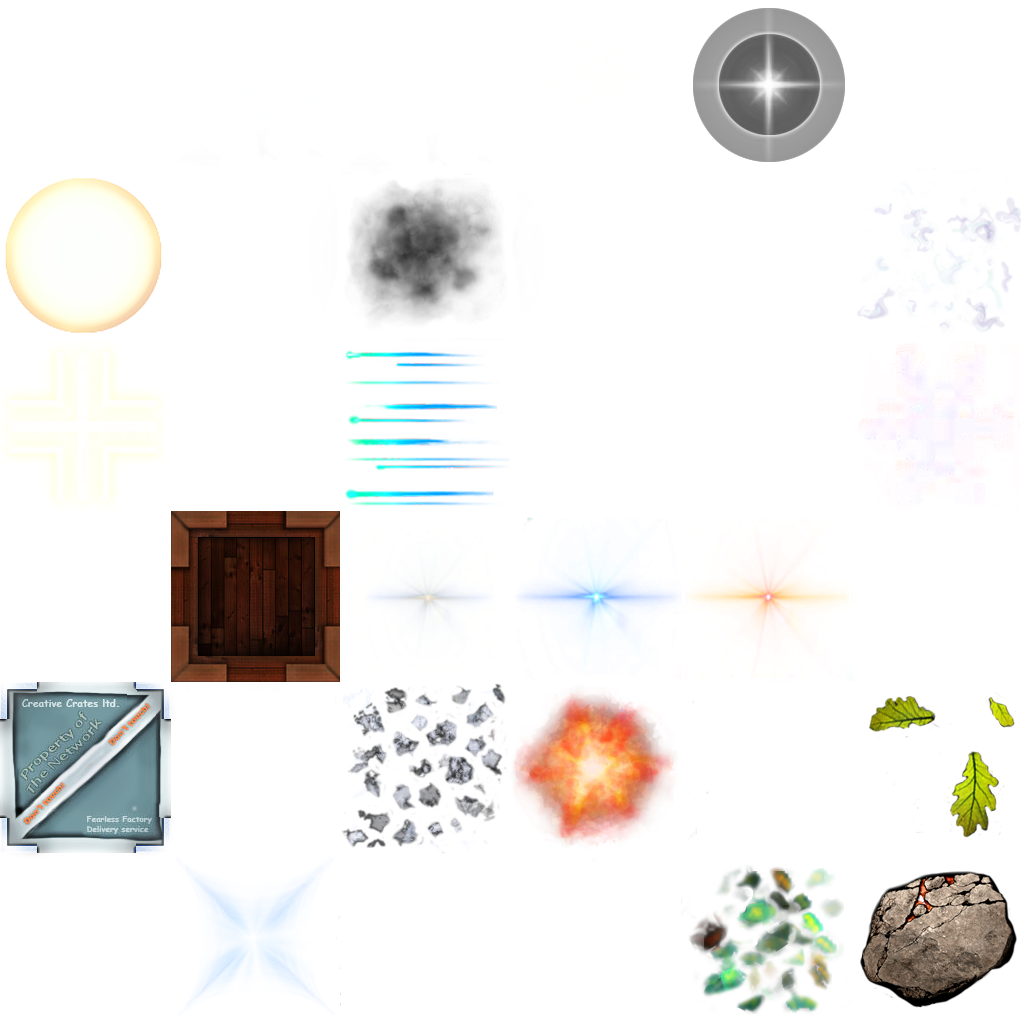
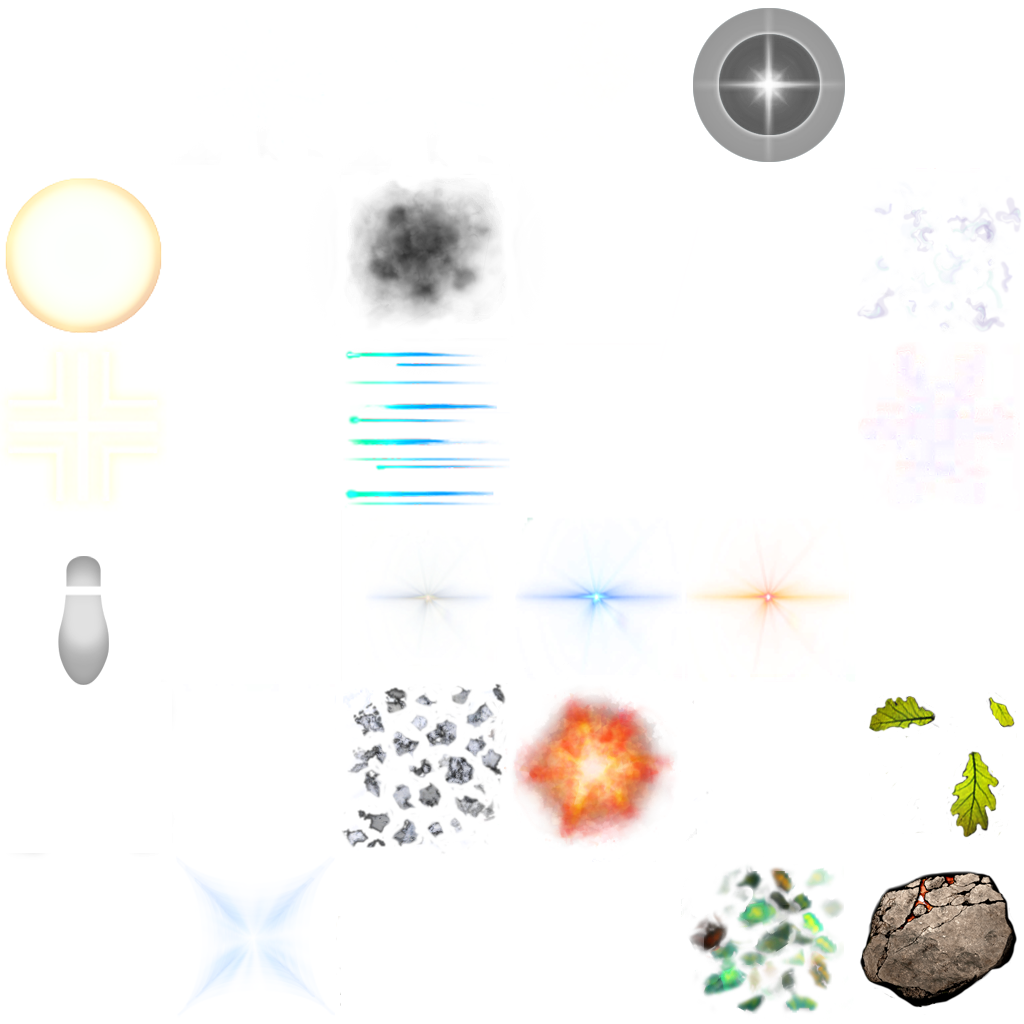
footstep stamps

Changed region(s): [[0.0, 0.5, 0.3438, 0.8438]]

diff --git a/client/js/workers/main/game/control/CharacterFoot.js b/client/js/workers/main/game/control/CharacterFoot.js
@@ -5,6 +5,8 @@ define([
     ],
     function() {
 
+        var tempObj = new THREE.Object3D();
+
         var CharacterFoot = function(key) {
             this.key = key;
 
@@ -13,6 +15,8 @@ define([
 
             this.footReach = new THREE.Vector3();
 
+            this.forward = new THREE.Vector3();
+
             this.contactPoint = new THREE.Vector3();
             this.contactNormal = new THREE.Vector3();
 
@@ -20,9 +24,14 @@ define([
 
             var plantStepEffect = function(effect) {
                 effect.setEffectPosition( this.contactPoint);
-                effect.pos.y +=0.02;
-                effect.setEffectNormal( this.contactNormal);
+                effect.pos.y +=0.005;
+
+                tempObj.up.copy(this.forward);
+                tempObj.lookAt(this.contactNormal);
+
+                effect.setEffectQuaternion(tempObj.quaternion);
                 effect.activateEffectFromConfigId();
+
             }.bind(this);
 
             this.callbacks = {
@@ -42,18 +51,29 @@ define([
             return this.footContactDepth;
         };
 
-        CharacterFoot.prototype.raycastJointDown = function(joint, config, tpf) {
+        CharacterFoot.prototype.raycastJointDown = function(worldEntity, joint, config, tpf) {
             joint.getDynamicPosition(this.footPosition);
             this.footPosition.y += config.foot_margin;
             this.footReach.y = -config.foot_reach;
 
             let hit = PhysicsWorldAPI.raycastFromTo(this.footPosition, this.footReach, this.contactPoint, this.contactNormal);
-
+            let terrainHit = false;
             if (hit) {
+                terrainHit = PhysicsWorldAPI.testPointerIsTerrain(hit.ptr);
+            }
+
+
+            if (terrainHit) {
 
                 if (!this.contactDuration) {
                     this.stepPosition.copy(this.footPosition);
-                    EffectAPI.buildEffectClassByConfigId('effect_footstep', this.callbacks.plantStepEffect)
+                    let speed = worldEntity.getWorldEntityVelocity().lengthSq();
+
+                    if (speed > 0.5 && this.contactNormal.y > 0.9) {
+                        worldEntity.getWorldEntityForward(this.forward);
+                        EffectAPI.buildEffectClassByConfigId('effect_footstep', this.callbacks.plantStepEffect)
+                    }
+
                 }
 
                 this.contactDuration+= tpf;
@@ -72,7 +92,7 @@ define([
         CharacterFoot.prototype.updateCharacterFoot = function(worldEntity, config, tpf) {
 
             let joint = worldEntity.getAttachmentJoint(this.key);
-            this.raycastJointDown(joint, config, tpf);
+            this.raycastJointDown(worldEntity, joint, config, tpf);
 
 
         };

diff --git a/client/js/worker/effects/ParticleEffect.js b/client/js/worker/effects/ParticleEffect.js
@@ -14,10 +14,13 @@ define([
 
             this.particle_id = 'normal';
             this.pos = new THREE.Vector3();
+            this.quat = new THREE.Quaternion();
             this.normal = new THREE.Vector3(0, 1, 0);
-
+            this.rotZ = 0;
             this.size = 2+Math.random()*3;
 
+            this.attackTime = 1;
+            this.releaseTime = 1;
             this.colorRgba = {r:1, g:1, b:1, a: 1};
 
             this.config = {
@@ -62,6 +65,10 @@ define([
             this.normal.copy(normal);
         };
 
+        ParticleEffect.prototype.setParticleQuat = function(quat) {
+            this.quat.copy(quat);
+        };
+
         ParticleEffect.prototype.applyConfig = function() {
 
             this.size = MATH.randomBetween(this.config.size_min, this.config.size_max) || 5;
@@ -75,6 +82,9 @@ define([
             this.sprite[2] = this.config.sprite[2] || 1;
             this.sprite[3] = this.config.sprite[3] || 0;
 
+            this.attackTime = this.config.attack_time   || 1;
+            this.releaseTime =this.config.release_time  || 1;
+
             if (this.config.surface) {
 
                 if (this.pos.y < 0) {
@@ -86,7 +96,6 @@ define([
         };
 
         ParticleEffect.prototype.recoverParticleEffect = function() {
-            this.bufferElement.scaleUniform(0.3);
             this.bufferElement.releaseElement()
         };
 
@@ -95,24 +104,22 @@ define([
         };
 
         ParticleEffect.prototype.setBufferElement = function(bufferElement) {
+
             this.bufferElement = bufferElement;
             this.bufferElement.setPositionVec3(this.pos);
-
-            tempObj.lookAt(this.normal);
-            tempObj.rotateZ(Math.random() * 10);
-
-            this.bufferElement.setQuat(tempObj.quaternion);
+            this.bufferElement.setQuat(this.quat);
 
             this.bufferElement.scaleUniform(this.size);
             this.bufferElement.sprite.x = this.sprite[0];
             this.bufferElement.sprite.y = this.sprite[1];
             this.bufferElement.sprite.z = this.sprite[2];
             this.bufferElement.sprite.w = this.sprite[3];
+
             this.bufferElement.setSprite(this.bufferElement.sprite);
             this.bufferElement.setColorRGBA(this.colorRgba);
 
-            this.bufferElement.setAttackTime(1.0);
-            this.bufferElement.setReleaseTime(1.0);
+            this.bufferElement.setAttackTime(this.attackTime);
+            this.bufferElement.setReleaseTime(this.releaseTime);
             this.bufferElement.startLifecycleNow();
 
         };

diff --git a/client/js/worker/physics/PhysicsWorldAPI.js b/client/js/worker/physics/PhysicsWorldAPI.js
@@ -159,6 +159,8 @@ define([
             return ''+msg.x+'_'+msg.z;
         };
 
+        var terrainPointers = [];
+
         PhysicsWorldAPI.addTerrainToPhysics = function(terrainArea) {
             console.log("Physics Worker Add Terrain:", terrainArea);
 
@@ -180,7 +182,8 @@ define([
             terrainBodies[getTerrainKey(terrainArea.origin)] = terrainBody;
             ammoApi.includeBody(terrainBody);
             terrainArea.setAmmoBody(terrainBody);
-            console.log("terrainBody:", terrainBody);
+            terrainPointers.push(terrainBody.tw);
+            console.log("terrainBody:", terrainPointers, terrainBody);
             /*
             var dynamicSpatial = new DynamicSpatial();
             dynamicSpatial.setSpatialBuffer(msg[2]);
@@ -190,6 +193,10 @@ define([
             */
         };
 
+
+        PhysicsWorldAPI.testPointerIsTerrain = function(ptr) {
+            return terrainPointers.indexOf(ptr) !== -1;
+        };
 
         var bodyReady = function(dynamicSpatial, rigidBody) {
 

diff --git a/client/js/workers/main/world/WorldEntity.js b/client/js/workers/main/world/WorldEntity.js
@@ -98,6 +98,11 @@ define([
             storeQuat.copy(this.obj3d.quaternion);
         };
 
+        WorldEntity.prototype.getWorldEntityForward = function(storeVec) {
+            storeVec.set(0, 0, 1);
+            storeVec.applyQuaternion(this.obj3d.quaternion);
+        };
+
         WorldEntity.prototype.setWorldEntityPosition = function(posVec) {
             this.obj3d.position.copy(posVec);
             this.setWorldEntityIsDirty();

diff --git a/client/js/worker/physics/AmmoFunctions.js b/client/js/worker/physics/AmmoFunctions.js
@@ -321,7 +321,7 @@ define([
                 var hitPoint = rayCallback.get_m_hitPointWorld();
                 posRes.set(hitPoint.x(), hitPoint.y(), hitPoint.z());
 
-                hit.ptr = rayCallback.get_m_collisionObject().a;
+                hit.ptr = rayCallback.get_m_collisionObject().tw;
 
                 //    console.log(hitPoint, hit.ptr);
                 return hit;

diff --git a/client/js/worker/effects/EffectBuilder.js b/client/js/worker/effects/EffectBuilder.js
@@ -132,7 +132,7 @@ define([
                 particleEffect.pos.copy(effectOfClass.pos);
             }
 
-            particleEffect.normal.copy(effectOfClass.normal);
+            particleEffect.setParticleQuat(effectOfClass.quat);
 
             effectOfClass.activeParticles.push(particleEffect);
 

diff --git a/client/js/worker/effects/classes/DurableStamp.js b/client/js/worker/effects/classes/DurableStamp.js
@@ -57,7 +57,6 @@ define([
             this.callbacks.activateEffect(this);
         };
 
-
         DurableStamp.prototype.setEffectPosition = function(pos) {
             this.pos.copy(pos);
         };

diff --git a/client/js/worker/physics/DynamicSpatial.js b/client/js/worker/physics/DynamicSpatial.js
@@ -57,7 +57,8 @@ define([
             }
 
             this.applyBodyTransform(body);
-            return this.body = body;
+            this.body = body;
+            return body
 
         };
 
